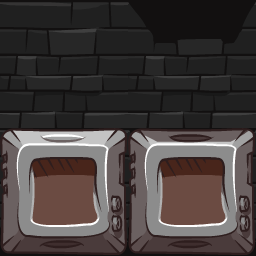
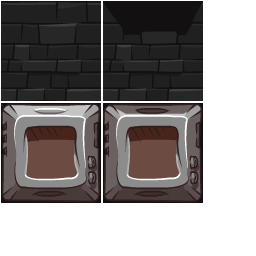
tilamap PIXI resolution fix global game reference removed

diff --git a/assets.js b/assets.js
@@ -1,1 +1,1 @@
-window._thingEngineAssest = {"scenes":{"levels/1":{"c":"Scene","p":{"name":"levels/1","backgroundColor":3626305,"faderType":"fader/curtains"},":":[{"c":"PrefabReference","p":{"x":183,"y":319,"prefabName":"double-rabbit"}},{"c":"OrientationTrigger","p":{"name":"close-btn","landscapeX":1246,"landscapeY":40,"portraitX":369,"portraitY":40},":":[{"c":"Button","p":{"image":"bunny.png","onClick":"game.closeCurrentScene"}}]},{"c":"MovieClip","p":{"x":47,"y":32,"timeline":{"l":{},"p":0.02,"d":0.85,"f":[{"n":"x","t":[{"v":47,"t":0,"val":69},{"v":244.09662530287426,"t":147,"val":266.09662530287426,"m":1},{"v":-11,"t":162,"m":1},{"v":48,"t":178},{"v":-11,"t":194},{"v":49,"t":214},{"v":146,"t":232,"j":33}]}]}},":":[{"c":"Text","p":{"translatableText":"YES","style.fontSize":20,"style.align":"left"}}]},{"c":"OrientationTrigger","p":{"name":"container","landscapeX":683,"landscapeY":399,"portraitX":231,"portraitY":364},":":[{"c":"Bunny","p":{"name":"b1","x":65,"y":-9,"scale.x":-1,"pivot.y":31,"image":"bunny.png","xSpeed":8.307122052799432}},{"c":"Button","p":{"x":-23,"y":18,"image":"UI/button.png","onClick":"game.showScene`levels/2","repeatDelay":1,"repeatInterval":1}},{"c":"Trigger","p":{"x":-728,"y":-453,"dataPath":"this.x"},":":[{"c":"Bunny","p":{"name":"b2","x":631,"y":442,"pivot.y":31,"image":"bunny.png","xSpeed":10.197367648693145}}]}]},{"c":"Label","p":{"x":13,"y":693,"text":"---","style.fontSize":16,"style.align":"left","style.fill":"#acb","dataPath":"game.currentScene.#container.#b1.x","template":"Rabbit's X: %%","isNumeric":true,"decimalsCount":1}},{"c":"Label","p":{"x":15,"y":664,"text":"---","style.fontSize":20,"style.align":"left","style.fill":"#acb","dataPath":"game.mouse.click","template":"Click: %%","decimalsCount":1}},{"c":"Label","p":{"x":15,"y":639,"text":"---","style.fontSize":16,"style.align":"left","style.fill":"#acb","dataPath":"game.currentScene.name","template":"Current scene's name: %%","decimalsCount":1}},{"c":"DSprite","p":{"x":579,"y":243,"image":"UI/button.png","tint":0},":":[{"c":"NumberInput","p":{"name":"text-input","value":300,"max":1000,"min":10,"step":10,"textView":"counter-text","dataPath":"all.progress-bar.scale.x","valuesList":"10,20,30,50,70,100,150,200,300,400,500,600,700,800,900,1000"},":":[{"c":"Sprite","p":{"name":"mask","x":-94,"y":-26,"visible":false,"scale.x":20,"scale.y":5,"image":"WHITE"}}]},{"c":"Trigger","p":{"x":-80,"dataPath":"this.parent.#text-input.canDecrease","alphaShift":-0.5},":":[{"c":"Button","p":{"onClick":"this.parent.parent.#text-input.decrease","repeatDelay":20,"repeatInterval":8},":":[{"c":"Text","p":{"y":-29,"text":" - ","style.fontSize":43}}]}]},{"c":"Trigger","p":{"x":80,"dataPath":"this.parent.#text-input.canIncrease","alphaShift":-0.5},":":[{"c":"Button","p":{"onClick":"this.parent.parent.#text-input.increase","repeatDelay":20,"repeatInterval":8},":":[{"c":"Text","p":{"y":-24,"text":" + ","style.fontSize":43}}]}]}]},{"c":"DSprite","p":{"name":"controlled-bunny","x":500,"y":165,"image":"bunny.png"},":":[{"c":"Label","p":{"y":-50,"text":"Bunny's x: 500","style.fontSize":14,"dataPath":"this.parent.x","template":"Bunny's x: %%"}}]},{"c":"Container","p":{"x":100,"y":100,"scale.x":0.1},":":[{"c":"Sprite","p":{"x":-20,"y":-2,"scale.x":1004,"scale.y":1.4,"image":"WHITE","tint":6656}},{"c":"Sprite","p":{"name":"progress-bar","scale.x":200,"image":"WHITE","tint":10813336}}]},{"c":"Button","p":{"x":236,"y":541,"image":"UI/button.png","onClick":"FlyText.flyText`+34,50,500"}}]},"levels/2":{"c":"Scene","p":{"name":"levels/2","backgroundColor":1705536,"faderType":"fader/default"},":":[{"c":"OrientationTrigger","p":{"landscapeX":272,"landscapeY":352,"portraitX":100,"portraitY":328},":":[{"c":"MovieClip","p":{"timeline":{"l":{"dock":2,"activate":133},"p":0.02,"d":0.85,"f":[{"n":"y","t":[{"v":0,"t":0},{"v":0,"t":110,"a":"this.stop","m":3,"b":0.4,"g":1},{"v":-130,"t":143},{"v":-149,"t":167,"j":119}]}]}},":":[{"c":"Button","p":{"image":"bunny.png","onClick":"game.currentScene.gotoLabelRecursive`dock","afterClick":"this.parent.gotoLabel`activate"}}]}]},{"c":"OrientationTrigger","p":{"landscapeX":402,"landscapeY":352,"portraitX":191,"portraitY":329},":":[{"c":"MovieClip","p":{"timeline":{"l":{"dock":2,"activate":133},"p":0.02,"d":0.85,"f":[{"n":"y","t":[{"v":0,"t":0},{"v":0,"t":110,"a":"this.stop","m":3,"b":0.4,"g":1},{"v":-130,"t":143},{"v":-149,"t":167,"j":119}]}]}},":":[{"c":"Button","p":{"image":"bunny.png","onClick":"game.currentScene.gotoLabelRecursive`dock","afterClick":"this.parent.gotoLabel`activate"}}]}]},{"c":"OrientationTrigger","p":{"landscapeX":532,"landscapeY":352,"portraitX":287,"portraitY":331},":":[{"c":"MovieClip","p":{"timeline":{"l":{"dock":2,"activate":133},"p":0.002,"d":0.98,"f":[{"n":"y","t":[{"v":0,"t":0},{"v":0,"t":110,"a":"this.stop","m":3,"b":0.72,"g":1},{"v":-130,"t":143},{"v":-149,"t":167,"j":119}]}]}},":":[{"c":"Button","p":{"image":"bunny.png","onClick":"game.currentScene.gotoLabelRecursive`dock","afterClick":"this.parent.gotoLabel`activate"}}]}]},{"c":"OrientationTrigger","p":{"landscapeX":662,"landscapeY":352,"portraitX":94,"portraitY":129},":":[{"c":"MovieClip","p":{"timeline":{"l":{"dock":3,"activate":133},"p":0.001,"d":0.99,"f":[{"n":"y","t":[{"v":0,"t":0},{"v":0,"t":110,"a":"this.stop","m":3,"b":0.42,"g":1},{"v":-130,"t":175},{"v":-200,"t":239,"j":119}]},{"n":"x","t":[{"v":0,"t":0},{"v":0,"t":33,"m":1},{"v":0,"t":110,"m":1},{"v":-43,"t":152},{"v":25,"t":199,"j":115}]},{"n":"rotation","t":[{"v":0,"t":0},{"v":0,"t":34,"m":1},{"v":0,"t":110,"m":1},{"v":-0.3453655305626828,"t":162},{"v":0.2547446402909962,"t":210,"j":116}]}]}},":":[{"c":"Button","p":{"image":"bunny.png","onClick":"game.currentScene.gotoLabelRecursive`dock","afterClick":"this.parent.gotoLabel`activate"}}]}]},{"c":"OrientationTrigger","p":{"landscapeX":792,"landscapeY":352,"portraitX":162,"portraitY":125},":":[{"c":"MovieClip","p":{"timeline":{"l":{"dock":2,"activate":133},"p":0.02,"d":0.85,"f":[{"n":"y","t":[{"v":0,"t":0},{"v":0,"t":110,"a":"this.stop","m":3,"b":0.4,"g":1},{"v":-130,"t":143},{"v":-149,"t":167,"j":119}]}]}},":":[{"c":"Button","p":{"image":"bunny.png","onClick":"game.currentScene.gotoLabelRecursive`dock","afterClick":"this.parent.gotoLabel`activate"}}]}]},{"c":"OrientationTrigger","p":{"landscapeX":922,"landscapeY":352,"portraitX":250,"portraitY":127},":":[{"c":"MovieClip","p":{"timeline":{"l":{"dock":2,"activate":133},"p":0.02,"d":0.85,"f":[{"n":"y","t":[{"v":0,"t":0},{"v":0,"t":110,"a":"this.stop","m":3,"b":0.4,"g":1},{"v":-130,"t":143},{"v":-149,"t":167,"j":119}]}]}},":":[{"c":"Button","p":{"image":"bunny.png","onClick":"game.currentScene.gotoLabelRecursive`dock","afterClick":"this.parent.gotoLabel`activate"}}]}]},{"c":"OrientationTrigger","p":{"landscapeX":1052,"landscapeY":352,"portraitX":312,"portraitY":126},":":[{"c":"MovieClip","p":{"timeline":{"l":{"dock":2,"activate":133},"p":0.02,"d":0.85,"f":[{"n":"y","t":[{"v":0,"t":0},{"v":0,"t":110,"a":"this.stop","m":3,"b":0.4,"g":1},{"v":-130,"t":143},{"v":-149,"t":167,"j":119}]}]}},":":[{"c":"Button","p":{"image":"bunny.png","onClick":"game.currentScene.gotoLabelRecursive`dock","afterClick":"this.parent.gotoLabel`activate"}}]}]},{"c":"Bunny","p":{"name":"bunny","x":460,"y":537,"image":"bunny.png","tint":1244928,"xSpeed":14.375}},{"c":"Button","p":{"x":177,"y":471,"image":"UI/button.png","onClick":"game.showScene`levels/3"},":":[{"c":"Text","p":{"y":-22,"translatableText":"YES","style.fontSize":34,"style.stroke":"#472","style.strokeThickness":5}}]},{"c":"Label","p":{"x":17,"y":588,"translatableText":"OK","style.fontSize":16,"style.align":"left","style.fill":"#acb","dataPath":"game.W","decimalsCount":1}},{"c":"Label","p":{"x":17,"y":618,"text":" X: %%","style.fontSize":16,"style.align":"left","style.fill":"#acb","dataPath":"all.bunny.x","template":"X: %%","isNumeric":true}},{"c":"Bunny","p":{"x":289,"y":192,"image":"bunny.png","tint":16735781,"xSpeed":6}},{"c":"OrientationTrigger","p":{"landscapeX":226,"landscapeY":686,"portraitX":182,"portraitY":684,"portraitScaleY":0.81,"portraitScaleX":0.81},":":[{"c":"Button","p":{"x":-107,"y":-7,"image":"UI/button.png","onClick":"this.parent.parent.#bunny.setGravity`3"},":":[{"c":"Text","p":{"y":-24,"text":"Gravity x 3","style.fontSize":37,"style.fill":"#fff","style.stroke":"#040","style.strokeThickness":6}}]},{"c":"Button","p":{"x":150,"y":-7,"image":"UI/button.png","onClick":"this.parent.parent.#bunny.setGravity`1"},":":[{"c":"Text","p":{"y":-24,"text":"Gravity x 1","style.fontSize":37,"style.fill":"#fff","style.stroke":"#040","style.strokeThickness":6}}]}]},{"c":"OrientationTrigger","p":{"name":"close-btn","landscapeX":1246,"landscapeY":40,"portraitX":378,"portraitY":39},":":[{"c":"Button","p":{"image":"bunny.png","onClick":"game.closeCurrentScene"}}]}]},"levels/3":{"c":"Scene","p":{"name":"levels/3","backgroundColor":76060,"faderType":"fader/curtains"},":":[{"c":"Bunny","p":{"x":1009,"y":615,"pivot.y":31,"image":"bunny.png","xSpeed":8.307122052799432}},{"c":"Bunny","p":{"x":1006,"y":155,"pivot.y":30,"image":"bunny.png","xSpeed":-3},":":[{"c":"DSprite","p":{"x":2,"y":-40,"image":"bunny.png"}}]},{"c":"Bunny","p":{"x":807,"y":507,"pivot.y":31,"image":"bunny.png","xSpeed":-11.194716823816178}},{"c":"DSprite","p":{"x":29,"y":713,"pivot.y":35,"image":"bunny.png"}},{"c":"Bunny","p":{"x":345,"y":378,"rotation":-0.7360000000000001,"image":"bunny.png","xSpeed":-10.588117464333646}},{"c":"Bunny","p":{"x":232,"y":183,"image":"bunny.png","xSpeed":12.152}},{"c":"Bunny","p":{"x":1020,"y":406,"image":"bunny.png","xSpeed":-6.885802875589299}},{"c":"Button","p":{"x":1084,"y":503,"image":"UI/button.png","onClick":"game.showScene`main"}},{"c":"Bunny","p":{"x":272,"y":171,"image":"bunny.png","xSpeed":-7.247103147991137}},{"c":"Bunny","p":{"x":630,"y":141,"image":"bunny.png","xSpeed":14.74211786118003}},{"c":"Bunny","p":{"x":1116,"y":397,"image":"bunny.png","xSpeed":12.476156132446718}},{"c":"Bunny","p":{"x":1060,"y":590,"image":"bunny.png","xSpeed":10.214526638249051}},{"c":"MovieClip","p":{"x":250,"y":250,"image":"bunny.png","timeline":{"l":{},"p":0.02,"d":0.85,"f":[{"n":"x","t":[{"v":250,"t":0},{"v":272,"t":46},{"v":409,"t":86},{"v":206,"t":115},{"v":447.09662530287426,"t":147},{"v":594.0966253028743,"t":209,"j":0}]},{"n":"y","t":[{"v":250,"t":0},{"v":500,"t":46},{"v":404,"t":86},{"v":286,"t":115},{"v":621.0316347848831,"t":147},{"v":321.03163478488307,"t":182,"j":0}]}]}}},{"c":"Text","p":{"x":142,"y":397,"text":"hgvhgv kj hioJJHYU","style.fontSize":16,"style.align":"left","style.fill":"#fff","style.letterSpacing":1}},{"c":"OrientationTrigger","p":{"name":"close-btn","landscapeX":1246,"landscapeY":40,"portraitX":376,"portraitY":42},":":[{"c":"Button","p":{"image":"bunny.png","onClick":"game.closeCurrentScene"}}]},{"c":"Tilemap","p":{"x":169,"y":151,"image":"map/tile1.png","tilemap":[[-1,-1,-1,1,1,1,1,1],[-1,-1,-1,1,1,1,1,1],[-1,-1,-1,1,1,1,1,1],[1,1,1,1,1,1,1,1],[1,1,1,1,1,1,1,1],[1,1,1,-1,-1,-1,-1,1],[1,1,1,-1,-1,-1,-1,1],[1,1,1,-1,-1,-1,-1,1],[1,1,1,-1,-1,-1,-1,1],[1,1,1,1,1,1,1,1],[1,1,1,1,1,1,1,1],[-1,-1,-1,-1,1,1,1,1],[-1,-1,-1,-1,1,1,1,1],[-1,-1,-1,-1,1,1,1,1],[-1,-1,-1,-1,1,1,1,1],[1,1,1,1,1,1,1,1]],"columns":16,"tileW":32,"tileH":32,"wField":1,"hField":1},":":[]}]},"main":{"c":"MainMenu","p":{"name":"main","backgroundColor":3032871},":":[{"c":"OrientationTrigger","p":{"landscapeX":512,"landscapeY":338,"portraitX":81,"portraitY":225},":":[{"c":"PerspectiveSprite","p":{"y":-28,"image":"UI/button.png","x0":20,"x1":236,"y2":64,"x3":256,"y3":64}}]},{"c":"NineSlicePlane","p":{"x":127,"y":153,"image":"UI/button.png"}},{"c":"OrientationTrigger","p":{"name":"close-btn","landscapeX":1246,"landscapeY":40,"portraitX":371,"portraitY":43},":":[{"c":"Button","p":{"image":"bunny.png","onClick":"game.closeCurrentScene"}}]},{"c":"OrientationTrigger","p":{"landscapeX":1131,"landscapeY":606,"portraitX":219,"portraitY":455},":":[{"c":"Button","p":{"y":-31,"image":"UI/button.png","onClick":"game.showScene`levels/1"}},{"c":"Button","p":{"x":-1,"y":53,"image":"UI/button.png","onClick":"game.showScene`levels/2"}}]},{"c":"OrientationTrigger","p":{"landscapeX":19,"landscapeY":689,"portraitX":16,"portraitY":692},":":[{"c":"Label","p":{"text":"---","style.fontSize":16,"style.align":"left","style.fill":"#acb","dataPath":"game.currentScene.name","template":"Current scene's name: %%","decimalsCount":1}},{"c":"Label","p":{"y":-25,"text":"---","style.fontSize":16,"style.align":"left","style.fill":"#acb","dataPath":"MainMenu.count","template":"Current scene's name: %%","decimalsCount":1}}]},{"c":"Bunny","p":{"x":172,"y":270,"image":"bunny.png"}},{"c":"Bunny","p":{"x":236,"y":260,"image":"bunny.png"}},{"c":"Bunny","p":{"x":308,"y":250,"image":"bunny.png"}},{"c":"Bunny","p":{"x":385,"y":240,"image":"bunny.png"}}]}},"prefabs":{"bunny-double":{"c":"Bunny","p":{"name":"bunny-double","x":329,"y":413,"rotation":-0.6060000000000001,"pivot.y":30,"xSpeed":-3},":":[{"c":"DSprite","p":{"x":-21,"y":40,"rotation":1.0690000000000002}}]},"counter-text":{"c":"Text","p":{"name":"counter-text","x":640,"y":360,"pivot.y":24,"text":"100","style.fontSize":44}},"double-rabbit":{"c":"Bunny","p":{"name":"double-rabbit","x":369,"y":445,"pivot.y":30,"image":"bunny.png","xSpeed":-3},":":[{"c":"DSprite","p":{"x":3,"y":-54,"image":"bunny.png"}}]},"fader/curtains":{"c":"OrientationTrigger","p":{"name":"fader/curtains","landscapeX":640,"landscapeY":360,"portraitX":205,"portraitY":360,"portraitScaleX":0.32},":":[{"c":"Container","p":{"x":-640,"y":-360},":":[{"c":"MovieClip","p":{"y":360,"scale.y":72,"image":"WHITE","tint":0,"timeline":{"l":{"hide fader":81},"p":0.02,"d":0.85,"f":[{"n":"x","t":[{"v":0,"t":0},{"v":320,"t":70,"m":3,"b":0.4,"g":2,"a":"game.faderShoot"},{"v":320,"t":74,"m":1,"a":"this.stop"},{"v":320,"t":83,"m":1},{"v":0,"t":120,"m":1,"a":"game.faderEnd"}]},{"n":"scale.x","t":[{"v":1,"t":0},{"v":64,"t":15,"m":1},{"v":64,"t":83,"m":1},{"v":1,"t":120,"m":1}]}]}}},{"c":"MovieClip","p":{"x":1275,"y":360,"scale.y":72,"image":"WHITE","tint":0,"timeline":{"l":{"hide fader":81},"p":0.02,"d":0.85,"f":[{"n":"x","t":[{"v":1275,"t":0},{"v":960,"t":70,"m":4,"b":0.4,"g":2},{"v":960,"t":74,"m":1},{"v":960,"t":83,"m":1},{"v":1281,"t":120,"m":1}]},{"n":"scale.x","t":[{"v":1,"t":0},{"v":64,"t":15,"m":1},{"v":64,"t":74,"m":1,"a":"this.stop"},{"v":64,"t":83,"m":1},{"v":1,"t":120,"m":1}]}]}}}]}]},"fader/default":{"c":"OrientationTrigger","p":{"name":"fader/default","landscapeX":640,"landscapeY":360,"portraitX":204,"portraitY":343,"portraitR":1.571},":":[{"c":"MovieClip","p":{"name":"fader/default","alpha":0,"scale.x":128,"scale.y":72,"image":"WHITE","tint":0,"timeline":{"l":{"hide fader":120},"p":0.02,"d":0.85,"f":[{"n":"alpha","t":[{"v":0,"t":0,"m":1},{"v":1,"t":11,"m":1,"a":"game.faderShoot"},{"v":1,"t":69,"m":1,"a":"this.stop"},{"v":1,"t":122,"m":1},{"v":0,"t":131,"m":1,"a":"game.faderEnd"}]}]}}}]},"flytext":{"c":"FlyText","p":{"name":"flytext","x":640,"y":360,"text":"Fly Text","style.fontSize":20,"style.fill":"#ff0","style.stroke":"#a50","style.strokeThickness":3}}},"images":["UI/button.png","bunny.png","map/tile1.png"],"text":{"en":{"OK":"Ok","YES":"Yes","NO":"No"},"ru":{"OK":"Ок","YES":"Да","NO":"Нет"}},"projectDesc":{"title":"thing-game-1","id":"thing-project-example.pixel-cave.com","icon":"img/bunny.png","lastSceneName":"levels/2","screenOrientation":"auto","defaultFont":"Arial"}};
+window._thingEngineAssest = {"scenes":{"levels/1":{"c":"Scene","p":{"name":"levels/1","backgroundColor":3626305,"faderType":"fader/curtains"},":":[{"c":"PrefabReference","p":{"x":183,"y":319,"prefabName":"double-rabbit"}},{"c":"OrientationTrigger","p":{"name":"close-btn","landscapeX":1246,"landscapeY":40,"portraitX":369,"portraitY":40},":":[{"c":"Button","p":{"image":"bunny.png","onClick":"game.closeCurrentScene"}}]},{"c":"MovieClip","p":{"x":47,"y":32,"timeline":{"l":{},"p":0.02,"d":0.85,"f":[{"n":"x","t":[{"v":47,"t":0,"val":69},{"v":244.09662530287426,"t":147,"val":266.09662530287426,"m":1},{"v":-11,"t":162,"m":1},{"v":48,"t":178},{"v":-11,"t":194},{"v":49,"t":214},{"v":146,"t":232,"j":33}]}]}},":":[{"c":"Text","p":{"translatableText":"YES","style.fontSize":20,"style.align":"left"}}]},{"c":"OrientationTrigger","p":{"name":"container","landscapeX":683,"landscapeY":399,"portraitX":231,"portraitY":364},":":[{"c":"Bunny","p":{"name":"b1","x":65,"y":-9,"scale.x":-1,"pivot.y":31,"image":"bunny.png","xSpeed":8.307122052799432}},{"c":"Button","p":{"x":-23,"y":18,"image":"UI/button.png","onClick":"game.showScene`levels/2","repeatDelay":1,"repeatInterval":1}},{"c":"Trigger","p":{"x":-728,"y":-453,"dataPath":"this.x"},":":[{"c":"Bunny","p":{"name":"b2","x":631,"y":442,"pivot.y":31,"image":"bunny.png","xSpeed":10.197367648693145}}]}]},{"c":"Label","p":{"x":13,"y":693,"text":"---","style.fontSize":16,"style.align":"left","style.fill":"#acb","dataPath":"game.currentScene.#container.#b1.x","template":"Rabbit's X: %%","isNumeric":true,"decimalsCount":1}},{"c":"Label","p":{"x":15,"y":664,"text":"---","style.fontSize":20,"style.align":"left","style.fill":"#acb","dataPath":"game.mouse.click","template":"Click: %%","decimalsCount":1}},{"c":"Label","p":{"x":15,"y":639,"text":"---","style.fontSize":16,"style.align":"left","style.fill":"#acb","dataPath":"game.currentScene.name","template":"Current scene's name: %%","decimalsCount":1}},{"c":"DSprite","p":{"x":579,"y":243,"image":"UI/button.png","tint":0},":":[{"c":"NumberInput","p":{"name":"text-input","value":300,"max":1000,"min":10,"step":10,"textView":"counter-text","dataPath":"all.progress-bar.scale.x","valuesList":"10,20,30,50,70,100,150,200,300,400,500,600,700,800,900,1000"},":":[{"c":"Sprite","p":{"name":"mask","x":-94,"y":-26,"visible":false,"scale.x":20,"scale.y":5,"image":"WHITE"}}]},{"c":"Trigger","p":{"x":-80,"dataPath":"this.parent.#text-input.canDecrease","alphaShift":-0.5},":":[{"c":"Button","p":{"onClick":"this.parent.parent.#text-input.decrease","repeatDelay":20,"repeatInterval":8},":":[{"c":"Text","p":{"y":-29,"text":" - ","style.fontSize":43}}]}]},{"c":"Trigger","p":{"x":80,"dataPath":"this.parent.#text-input.canIncrease","alphaShift":-0.5},":":[{"c":"Button","p":{"onClick":"this.parent.parent.#text-input.increase","repeatDelay":20,"repeatInterval":8},":":[{"c":"Text","p":{"y":-24,"text":" + ","style.fontSize":43}}]}]}]},{"c":"DSprite","p":{"name":"controlled-bunny","x":500,"y":165,"image":"bunny.png"},":":[{"c":"Label","p":{"y":-50,"text":"Bunny's x: 500","style.fontSize":14,"dataPath":"this.parent.x","template":"Bunny's x: %%"}}]},{"c":"Container","p":{"x":100,"y":100,"scale.x":0.1},":":[{"c":"Sprite","p":{"x":-20,"y":-2,"scale.x":1004,"scale.y":1.4,"image":"WHITE","tint":6656}},{"c":"Sprite","p":{"name":"progress-bar","scale.x":200,"image":"WHITE","tint":10813336}}]},{"c":"Button","p":{"x":236,"y":541,"image":"UI/button.png","onClick":"FlyText.flyText`+34,50,500"}}]},"levels/2":{"c":"Scene","p":{"name":"levels/2","backgroundColor":1705536,"faderType":"fader/default"},":":[{"c":"OrientationTrigger","p":{"landscapeX":272,"landscapeY":352,"portraitX":100,"portraitY":328},":":[{"c":"MovieClip","p":{"timeline":{"l":{"dock":2,"activate":133},"p":0.02,"d":0.85,"f":[{"n":"y","t":[{"v":0,"t":0},{"v":0,"t":110,"a":"this.stop","m":3,"b":0.4,"g":1},{"v":-130,"t":143},{"v":-149,"t":167,"j":119}]}]}},":":[{"c":"Button","p":{"image":"bunny.png","onClick":"game.currentScene.gotoLabelRecursive`dock","afterClick":"this.parent.gotoLabel`activate"}}]}]},{"c":"OrientationTrigger","p":{"landscapeX":402,"landscapeY":352,"portraitX":191,"portraitY":329},":":[{"c":"MovieClip","p":{"timeline":{"l":{"dock":2,"activate":133},"p":0.02,"d":0.85,"f":[{"n":"y","t":[{"v":0,"t":0},{"v":0,"t":110,"a":"this.stop","m":3,"b":0.4,"g":1},{"v":-130,"t":143},{"v":-149,"t":167,"j":119}]}]}},":":[{"c":"Button","p":{"image":"bunny.png","onClick":"game.currentScene.gotoLabelRecursive`dock","afterClick":"this.parent.gotoLabel`activate"}}]}]},{"c":"OrientationTrigger","p":{"landscapeX":532,"landscapeY":352,"portraitX":287,"portraitY":331},":":[{"c":"MovieClip","p":{"timeline":{"l":{"dock":2,"activate":133},"p":0.002,"d":0.98,"f":[{"n":"y","t":[{"v":0,"t":0},{"v":0,"t":110,"a":"this.stop","m":3,"b":0.72,"g":1},{"v":-130,"t":143},{"v":-149,"t":167,"j":119}]}]}},":":[{"c":"Button","p":{"image":"bunny.png","onClick":"game.currentScene.gotoLabelRecursive`dock","afterClick":"this.parent.gotoLabel`activate"}}]}]},{"c":"OrientationTrigger","p":{"landscapeX":662,"landscapeY":352,"portraitX":94,"portraitY":129},":":[{"c":"MovieClip","p":{"timeline":{"l":{"dock":3,"activate":133},"p":0.001,"d":0.99,"f":[{"n":"y","t":[{"v":0,"t":0},{"v":0,"t":110,"a":"this.stop","m":3,"b":0.42,"g":1},{"v":-130,"t":175},{"v":-200,"t":239,"j":119}]},{"n":"x","t":[{"v":0,"t":0},{"v":0,"t":33,"m":1},{"v":0,"t":110,"m":1},{"v":-43,"t":152},{"v":25,"t":199,"j":115}]},{"n":"rotation","t":[{"v":0,"t":0},{"v":0,"t":34,"m":1},{"v":0,"t":110,"m":1},{"v":-0.3453655305626828,"t":162},{"v":0.2547446402909962,"t":210,"j":116}]}]}},":":[{"c":"Button","p":{"image":"bunny.png","onClick":"game.currentScene.gotoLabelRecursive`dock","afterClick":"this.parent.gotoLabel`activate"}}]}]},{"c":"OrientationTrigger","p":{"landscapeX":792,"landscapeY":352,"portraitX":162,"portraitY":125},":":[{"c":"MovieClip","p":{"timeline":{"l":{"dock":2,"activate":133},"p":0.02,"d":0.85,"f":[{"n":"y","t":[{"v":0,"t":0},{"v":0,"t":110,"a":"this.stop","m":3,"b":0.4,"g":1},{"v":-130,"t":143},{"v":-149,"t":167,"j":119}]}]}},":":[{"c":"Button","p":{"image":"bunny.png","onClick":"game.currentScene.gotoLabelRecursive`dock","afterClick":"this.parent.gotoLabel`activate"}}]}]},{"c":"OrientationTrigger","p":{"landscapeX":922,"landscapeY":352,"portraitX":250,"portraitY":127},":":[{"c":"MovieClip","p":{"timeline":{"l":{"dock":2,"activate":133},"p":0.02,"d":0.85,"f":[{"n":"y","t":[{"v":0,"t":0},{"v":0,"t":110,"a":"this.stop","m":3,"b":0.4,"g":1},{"v":-130,"t":143},{"v":-149,"t":167,"j":119}]}]}},":":[{"c":"Button","p":{"image":"bunny.png","onClick":"game.currentScene.gotoLabelRecursive`dock","afterClick":"this.parent.gotoLabel`activate"}}]}]},{"c":"OrientationTrigger","p":{"landscapeX":1052,"landscapeY":352,"portraitX":312,"portraitY":126},":":[{"c":"MovieClip","p":{"timeline":{"l":{"dock":2,"activate":133},"p":0.02,"d":0.85,"f":[{"n":"y","t":[{"v":0,"t":0},{"v":0,"t":110,"a":"this.stop","m":3,"b":0.4,"g":1},{"v":-130,"t":143},{"v":-149,"t":167,"j":119}]}]}},":":[{"c":"Button","p":{"image":"bunny.png","onClick":"game.currentScene.gotoLabelRecursive`dock","afterClick":"this.parent.gotoLabel`activate"}}]}]},{"c":"Bunny","p":{"name":"bunny","x":460,"y":537,"image":"bunny.png","tint":1244928,"xSpeed":14.375}},{"c":"Button","p":{"x":177,"y":471,"image":"UI/button.png","onClick":"game.showScene`levels/3"},":":[{"c":"Text","p":{"y":-22,"translatableText":"YES","style.fontSize":34,"style.stroke":"#472","style.strokeThickness":5}}]},{"c":"Label","p":{"x":17,"y":588,"translatableText":"OK","style.fontSize":16,"style.align":"left","style.fill":"#acb","dataPath":"game.W","decimalsCount":1}},{"c":"Label","p":{"x":17,"y":618,"text":" X: %%","style.fontSize":16,"style.align":"left","style.fill":"#acb","dataPath":"all.bunny.x","template":"X: %%","isNumeric":true}},{"c":"Bunny","p":{"x":289,"y":192,"image":"bunny.png","tint":16735781,"xSpeed":6}},{"c":"OrientationTrigger","p":{"landscapeX":226,"landscapeY":686,"portraitX":182,"portraitY":684,"portraitScaleY":0.81,"portraitScaleX":0.81},":":[{"c":"Button","p":{"x":-107,"y":-7,"image":"UI/button.png","onClick":"this.parent.parent.#bunny.setGravity`3"},":":[{"c":"Text","p":{"y":-24,"text":"Gravity x 3","style.fontSize":37,"style.fill":"#fff","style.stroke":"#040","style.strokeThickness":6}}]},{"c":"Button","p":{"x":150,"y":-7,"image":"UI/button.png","onClick":"this.parent.parent.#bunny.setGravity`1"},":":[{"c":"Text","p":{"y":-24,"text":"Gravity x 1","style.fontSize":37,"style.fill":"#fff","style.stroke":"#040","style.strokeThickness":6}}]}]},{"c":"OrientationTrigger","p":{"name":"close-btn","landscapeX":1246,"landscapeY":40,"portraitX":378,"portraitY":39},":":[{"c":"Button","p":{"image":"bunny.png","onClick":"game.closeCurrentScene"}}]}]},"levels/3":{"c":"Scene","p":{"name":"levels/3","isScrollable":true,"backgroundColor":0,"faderType":"fader/curtains"},":":[{"c":"Bunny","p":{"x":1009,"y":615,"pivot.y":31,"image":"bunny.png","xSpeed":8.307122052799432}},{"c":"Bunny","p":{"x":1006,"y":155,"pivot.y":30,"image":"bunny.png","xSpeed":-3},":":[{"c":"DSprite","p":{"x":2,"y":-40,"image":"bunny.png"}}]},{"c":"Bunny","p":{"x":830,"y":547,"pivot.y":31,"image":"bunny.png","xSpeed":-11.194716823816178}},{"c":"DSprite","p":{"x":29,"y":713,"pivot.y":35,"image":"bunny.png"}},{"c":"Bunny","p":{"x":432,"y":434,"rotation":-0.7360000000000001,"image":"bunny.png","xSpeed":-10.588117464333646}},{"c":"Bunny","p":{"x":232,"y":183,"image":"bunny.png","xSpeed":12.152}},{"c":"Bunny","p":{"x":1020,"y":406,"image":"bunny.png","xSpeed":-6.885802875589299}},{"c":"Button","p":{"x":1084,"y":503,"image":"UI/button.png","onClick":"game.showScene`main"}},{"c":"Bunny","p":{"x":559,"y":559,"image":"bunny.png","xSpeed":-7.247103147991137}},{"c":"Bunny","p":{"x":527,"y":386,"image":"bunny.png","xSpeed":14.74211786118003}},{"c":"Bunny","p":{"x":661,"y":304,"image":"bunny.png","xSpeed":12.476156132446718}},{"c":"Bunny","p":{"x":1060,"y":590,"image":"bunny.png","xSpeed":10.214526638249051}},{"c":"MovieClip","p":{"x":250,"y":250,"image":"bunny.png","timeline":{"l":{},"p":0.02,"d":0.85,"f":[{"n":"x","t":[{"v":250,"t":0},{"v":272,"t":46},{"v":409,"t":86},{"v":206,"t":115},{"v":447.09662530287426,"t":147},{"v":594.0966253028743,"t":209,"j":0}]},{"n":"y","t":[{"v":250,"t":0},{"v":500,"t":46},{"v":404,"t":86},{"v":286,"t":115},{"v":621.0316347848831,"t":147},{"v":321.03163478488307,"t":182,"j":0}]}]}}},{"c":"Text","p":{"x":1002,"y":220,"text":"hgvhgv kj hioJJHYU","style.fontSize":22,"style.fill":"#fff"}},{"c":"Text","p":{"x":903,"y":243,"text":"hgvhgv kj hioJJHYU","style.fontSize":22,"style.align":"left","style.fill":"#fff"}},{"c":"OrientationTrigger","p":{"name":"close-btn","landscapeX":1246,"landscapeY":40,"portraitX":376,"portraitY":42},":":[{"c":"Button","p":{"image":"bunny.png","onClick":"game.closeCurrentScene"}}]}]},"main":{"c":"MainMenu","p":{"name":"main","backgroundColor":2823437},":":[{"c":"DSprite","p":{},":":[{"c":"Tilemap","p":{"image":"map/map1.png","tilemap":[[2,3,3,3,3,3,-1,-1],[2,1,0,0,0,2,3,3],[2,1,2,3,1,0,0,2],[2,1,2,3,3,3,1,2],[2,1,0,0,0,0,0,2],[2,3,1,2,3,3,1,2],[2,3,1,0,0,0,0,2],[-1,2,3,3,3,3,3,3]],"tileW":100,"tileH":100,"wField":1,"hField":1},":":[]}]},{"c":"OrientationTrigger","p":{"landscapeX":512,"landscapeY":338,"portraitX":81,"portraitY":225},":":[{"c":"PerspectiveSprite","p":{"y":-28,"image":"UI/button.png","x0":20,"x1":236,"y2":64,"x3":256,"y3":64}}]},{"c":"NineSlicePlane","p":{"x":127,"y":153,"image":"UI/button.png"}},{"c":"OrientationTrigger","p":{"name":"close-btn","landscapeX":1246,"landscapeY":40,"portraitX":371,"portraitY":43},":":[{"c":"Button","p":{"image":"bunny.png","onClick":"game.closeCurrentScene"}}]},{"c":"OrientationTrigger","p":{"landscapeX":1131,"landscapeY":606,"portraitX":219,"portraitY":455},":":[{"c":"Button","p":{"y":-31,"image":"UI/button.png","onClick":"game.showScene`levels/1"}},{"c":"Button","p":{"x":-1,"y":53,"image":"UI/button.png","onClick":"game.showScene`levels/2"}}]},{"c":"OrientationTrigger","p":{"landscapeX":19,"landscapeY":689,"portraitX":16,"portraitY":692},":":[{"c":"Label","p":{"text":"---","style.fontSize":16,"style.align":"left","style.fill":"#acb","dataPath":"game.currentScene.name","template":"Current scene's name: %%","decimalsCount":1}},{"c":"Label","p":{"y":-25,"text":"---","style.fontSize":16,"style.align":"left","style.fill":"#acb","dataPath":"MainMenu.count","template":"Current scene's name: %%","decimalsCount":1}}]},{"c":"Bunny","p":{"x":172,"y":270,"image":"bunny.png"}},{"c":"Bunny","p":{"x":236,"y":260,"image":"bunny.png"}},{"c":"Bunny","p":{"x":308,"y":216,"image":"bunny.png"}},{"c":"Bunny","p":{"x":385,"y":178,"image":"bunny.png"}}]}},"prefabs":{"bunny-double":{"c":"Bunny","p":{"name":"bunny-double","x":329,"y":413,"rotation":-0.6060000000000001,"pivot.y":30,"xSpeed":-3},":":[{"c":"DSprite","p":{"x":-21,"y":40,"rotation":1.0690000000000002}}]},"counter-text":{"c":"Text","p":{"name":"counter-text","x":640,"y":360,"pivot.y":24,"text":"100","style.fontSize":44}},"double-rabbit":{"c":"Bunny","p":{"name":"double-rabbit","x":369,"y":445,"pivot.y":30,"image":"bunny.png","xSpeed":-3},":":[{"c":"DSprite","p":{"x":3,"y":-54,"image":"bunny.png"}}]},"fader/curtains":{"c":"OrientationTrigger","p":{"name":"fader/curtains","landscapeX":640,"landscapeY":360,"portraitX":205,"portraitY":360,"portraitScaleX":0.32},":":[{"c":"Container","p":{"x":-640,"y":-360},":":[{"c":"MovieClip","p":{"y":360,"scale.y":72,"image":"WHITE","tint":0,"timeline":{"l":{"hide fader":81},"p":0.02,"d":0.85,"f":[{"n":"x","t":[{"v":0,"t":0},{"v":320,"t":70,"m":3,"b":0.4,"g":2,"a":"game.faderShoot"},{"v":320,"t":74,"m":1,"a":"this.stop"},{"v":320,"t":83,"m":1},{"v":0,"t":120,"m":1,"a":"game.faderEnd"}]},{"n":"scale.x","t":[{"v":1,"t":0},{"v":64,"t":15,"m":1},{"v":64,"t":83,"m":1},{"v":1,"t":120,"m":1}]}]}}},{"c":"MovieClip","p":{"x":1275,"y":360,"scale.y":72,"image":"WHITE","tint":0,"timeline":{"l":{"hide fader":81},"p":0.02,"d":0.85,"f":[{"n":"x","t":[{"v":1275,"t":0},{"v":960,"t":70,"m":4,"b":0.4,"g":2},{"v":960,"t":74,"m":1},{"v":960,"t":83,"m":1},{"v":1281,"t":120,"m":1}]},{"n":"scale.x","t":[{"v":1,"t":0},{"v":64,"t":15,"m":1},{"v":64,"t":74,"m":1,"a":"this.stop"},{"v":64,"t":83,"m":1},{"v":1,"t":120,"m":1}]}]}}}]}]},"fader/default":{"c":"OrientationTrigger","p":{"name":"fader/default","landscapeX":640,"landscapeY":360,"portraitX":204,"portraitY":343,"portraitR":1.571},":":[{"c":"MovieClip","p":{"name":"fader/default","alpha":0,"scale.x":128,"scale.y":72,"image":"WHITE","tint":0,"timeline":{"l":{"hide fader":120},"p":0.02,"d":0.85,"f":[{"n":"alpha","t":[{"v":0,"t":0,"m":1},{"v":1,"t":11,"m":1,"a":"game.faderShoot"},{"v":1,"t":69,"m":1,"a":"this.stop"},{"v":1,"t":122,"m":1},{"v":0,"t":131,"m":1,"a":"game.faderEnd"}]}]}}}]},"flytext":{"c":"FlyText","p":{"name":"flytext","x":640,"y":360,"text":"Fly Text","style.fontSize":20,"style.fill":"#ff0","style.stroke":"#a50","style.strokeThickness":3}}},"images":["UI/button.png","bunny.png","map/map1.png"],"text":{"en":{"OK":"Ok","YES":"Yes","NO":"No"},"ru":{"OK":"Ок","YES":"Да","NO":"Нет"}},"projectDesc":{"title":"thing-game-1","id":"thing-project-example.pixel-cave.com","icon":"img/bunny.png","lastSceneName":"main","screenOrientation":"auto","defaultFont":"Arial"}};

diff --git a/config/webpack.common.js b/config/webpack.common.js
@@ -9,9 +9,11 @@ const CopyWebpackPlugin = require('copy-webpack-plugin');
 
 let pixiDistPath = path.resolve(__dirname, '../node_modules/pixi.js/dist/pixi.min.js');
 let pixiTilemapDistPath = path.resolve(__dirname, '../node_modules/pixi-tilemap/bin/pixi-tilemap.js');
+let howlerPath = path.resolve(__dirname, '../node_modules/howler/dist/howler.core.min.js');
 if(!fs.existsSync(pixiDistPath)) {
 	pixiDistPath = path.resolve(__dirname, '../../../node_modules/pixi.js/dist/pixi.min.js');
 	pixiTilemapDistPath = path.resolve(__dirname, '../../../node_modules/pixi-tilemap/bin/pixi-tilemap.js');
+	howlerPath = path.resolve(__dirname, '../../../node_modules/howler/dist/howler.core.min.js');
 }
 
 module.exports = merge(common, {
@@ -23,6 +25,7 @@ module.exports = merge(common, {
 	plugins: [
 		new CopyWebpackPlugin([
 			'index.html',
+			{ from:howlerPath, to: 'howler.core.min.js' },
 			{ from:pixiDistPath, to: 'pixi.min.js' },
 			{ from:pixiTilemapDistPath, to: 'pixi-tilemap.js' }
 		])

diff --git a/src/game-objects/bunny.js b/src/game-objects/bunny.js
@@ -1,5 +1,6 @@
 import MainMenu from "../scenes/main-scene.js";
 import DSprite from "/thing-engine/js/components/d-sprite.js";
+import game from "/thing-engine/js/game.js";
 
 export default class Bunny extends DSprite {
 	
@@ -11,7 +12,7 @@ export default class Bunny extends DSprite {
 	update() {
 		MainMenu.count++;
 		this.vertexData[2] += Math.random();
-		if (this.y > H - 25) {
+		if (this.y > game.H - 25) {
 			this.onTouchBounds();
 			this.ySpeed = -Math.abs(this.ySpeed);
 		} else if(this.y < 0) {
@@ -30,8 +31,8 @@ export default class Bunny extends DSprite {
 			this.xSpeed *= -1.0;
 		}
 		
-		if (this.x > W) {
-			this.x = W;
+		if (this.x > game.W) {
+			this.x = game.W;
 			this.onTouchBounds();
 			this.xSpeed *= -1.0;
 		}

diff --git a/config/webpack.debug.js b/config/webpack.debug.js
@@ -1,14 +1,19 @@
 /*global module */
 /*global require */
+/*global __dirname */
 const merge = require('webpack-merge');
 const common = require('./webpack.common.js');
 const webpack = require('webpack');
+const path = require('path');
 
 module.exports = merge(common, {
-	mode: 'production',
+	mode: 'development',
+	output: {
+		path: path.resolve(__dirname, '../debug')
+	},
 	plugins: [
 		new webpack.DefinePlugin({
-			'process.env.NODE_ENV': JSON.stringify('production')
+			'process.env.NODE_ENV': JSON.stringify('development')
 		})
 	]
 });

diff --git a/src/classes.js b/src/classes.js
@@ -440,6 +440,7 @@ Lib._setClasses(classes,
   "pivot.y": 0
  },
  "Scene": {
+  "isScrollable": false,
   "isStatic": false,
   "isNoStackable": false,
   "backgroundColor": 16777215,
@@ -458,6 +459,7 @@ Lib._setClasses(classes,
   "pivot.y": 0
  },
  "MainMenu": {
+  "isScrollable": false,
   "isStatic": false,
   "isNoStackable": false,
   "backgroundColor": 16777215,

diff --git a/src/index.js b/src/index.js
@@ -1,5 +1,5 @@
-import Game from "/thing-engine/js/game.js";
+import game from "/thing-engine/js/game.js";
 import classes from "./classes.js"; // eslint-disable-line no-unused-vars
 
-new Game('%GAME_ID%');
-game.init();
+game.init(undefined, '%GAME_ID%');
+

diff --git a/index.html b/index.html
@@ -72,6 +72,7 @@
     </div>
 </div>
 
+<script src="howler.core.min.js"></script>
 <script src="pixi.min.js"></script>
 <script src="pixi-tilemap.js"></script>
 <script src="assets.js"></script>
